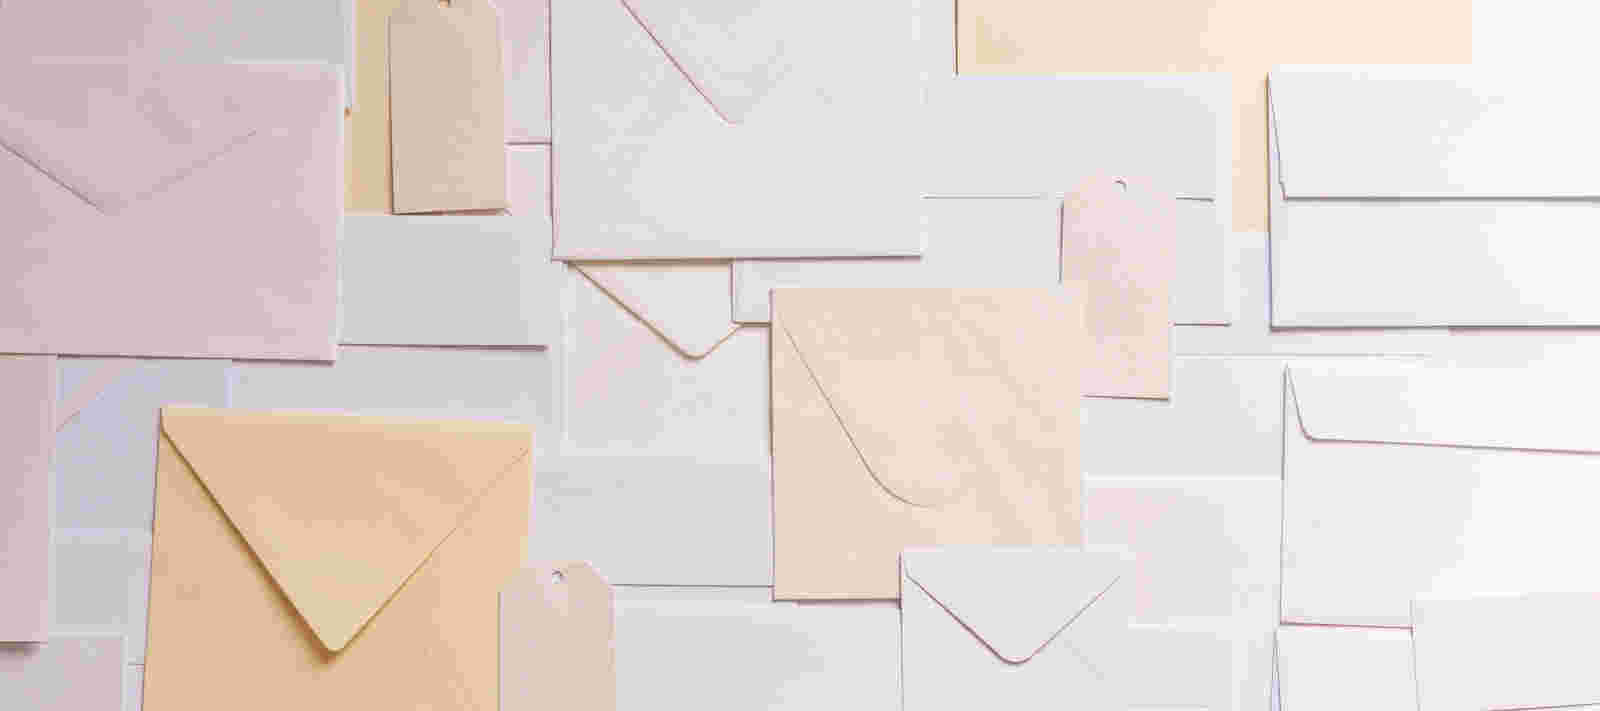
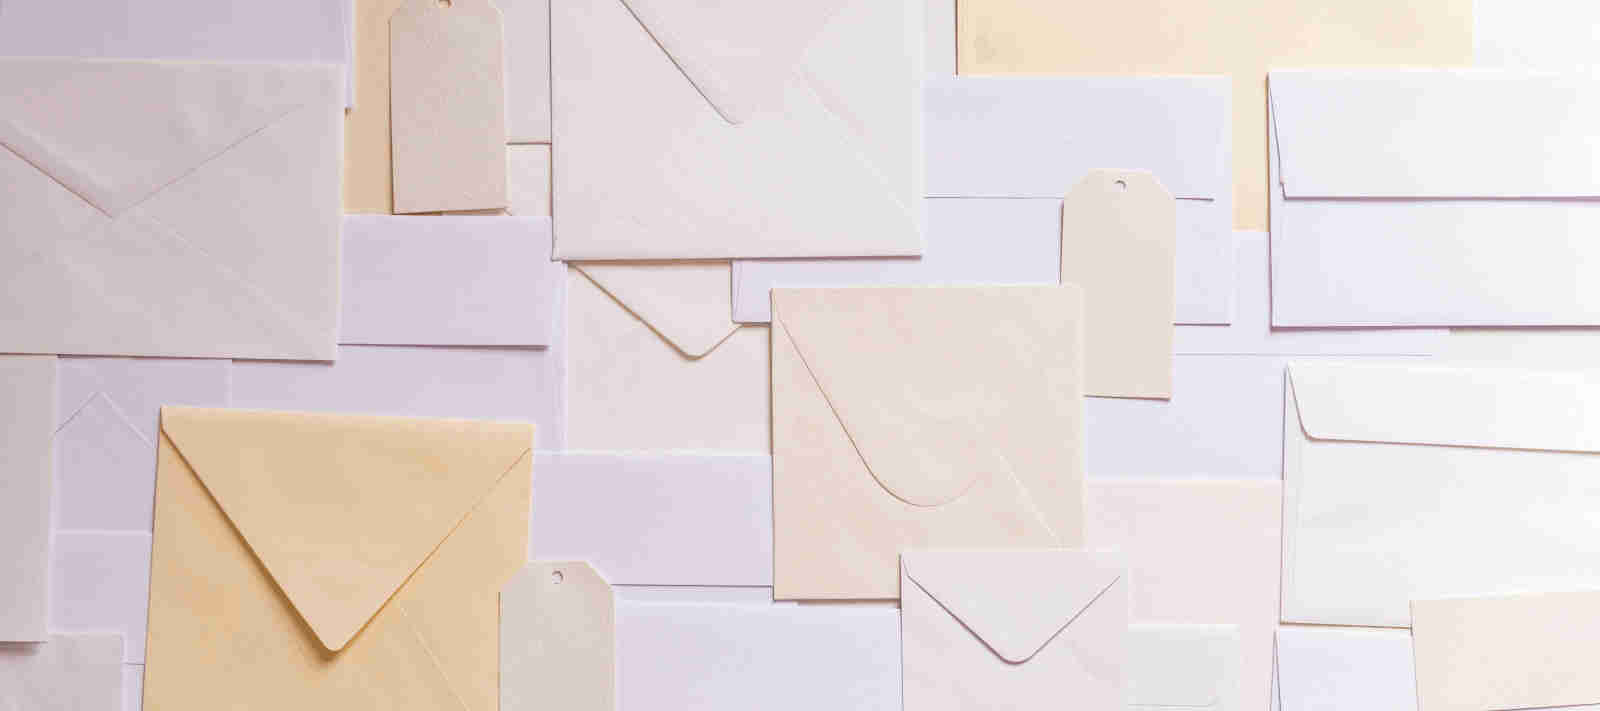
added new pictures

diff --git a/mod/land/hero.html b/mod/land/hero.html
@@ -1,7 +1,7 @@
-<img src="dat/hero-bg.jpg" class="img-main-background" data-src="https://unsplash.com/@blackout095?utm_source=unsplash&utm_medium=referral&utm_content=creditCopyText" />
+<img src=dat/hero-bg.jpg class=img-main-background data-src=https://unsplash.com/@joannakosinska?utm_source=unsplash&utm_medium=referral&utm_content=creditCopyText />
 
 <div class="container pos-rel">
-	<div class="text-center">
+	<div class=text-center>
 		<h2 class=dark>AWS SES Mailbox in</h2>
 		<h1 class=dark>Your Cloud Console</h1>
 		<h3 class=dark>We provide an <span class="orange2 bigger-110">easy to setup</span> and secure mailbox client</h3>
@@ -10,6 +10,6 @@
 		<br />
 		<br />
 		<br />
-		<a class="btn btn-purple btn-lg no-border bigger-150" href="#" role="button">&nbsp; Learn more &nbsp;</a>
+		<a class="btn btn-purple btn-lg no-border bigger-150" href="#" role=button>&nbsp; Learn more &nbsp;</a>
 	</div>
 </div>

diff --git a/mod/land/info.html b/mod/land/info.html
@@ -1,11 +1,11 @@
-<div class="row">
+<div class=row>
 	<div class="col-lg-5 col-sm-6 col-lg-offset-1 text-center">
-		<img alt="Section Image" src="dat/ace.png" width="250" class="img-responsive" />
+		<img alt="Section Image" src=dat/business.jpg width="250" class="img-responsive" />
 	</div>
 
 	<div class="col-lg-5 col-sm-6">
-		<h2 class="text-primary"><i class="ace-icon fa fa-sticky-note orange"></i>&nbsp; what is your business model?</h2>	
-		<div class="hr"></div>
+		<h2 class=text-primary><i class="ace-icon fa fa-sticky-note orange"></i>&nbsp; what is your business model?</h2>	
+		<div class=hr></div>
 		<p>
 			The S3 email client feature will be free forever, and we see it as a promotion feature.
 			<br />

diff --git a/mod/land/why.html b/mod/land/why.html
@@ -18,7 +18,7 @@
 	<div class=col-md-4>
 		<span class="fa-stack fa-4x">
 			<i class="fa fa-circle fa-stack-2x text-primary"></i>
-			<i class="fa fa-fast-forward fa-stack-1x fa-inverse"></i>
+			<i class="fa fa-magic fa-stack-1x fa-inverse"></i>
 		</span>
 		<h4 class=text-info>Easy to setup</h4>
 		<p class="text-muted align-justify">No coding or cloud computing knowledge required, all you need is setup an accout with Kloud Konsole and tell Kloud Konsole how to connect to your AWS account.</p>
